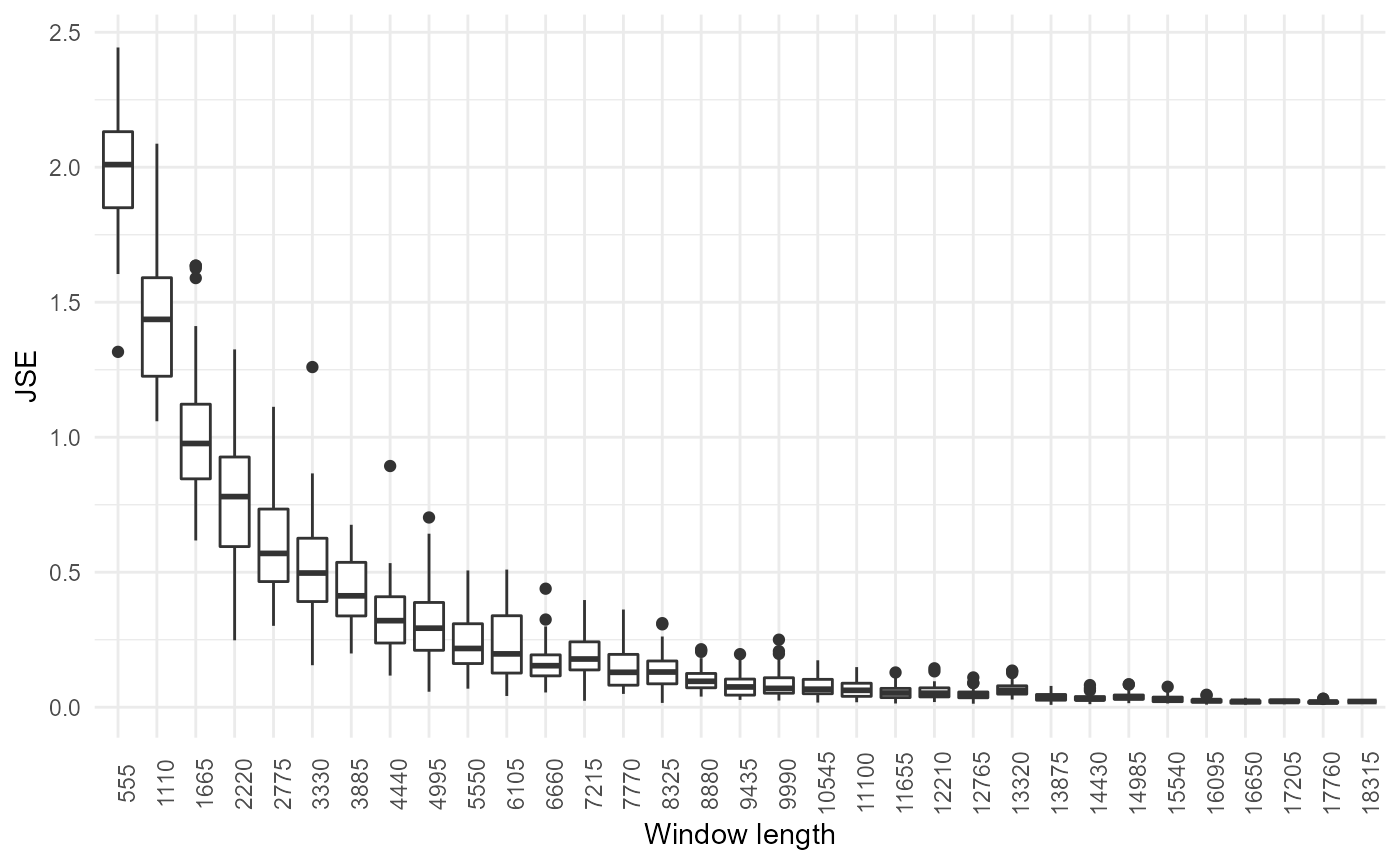
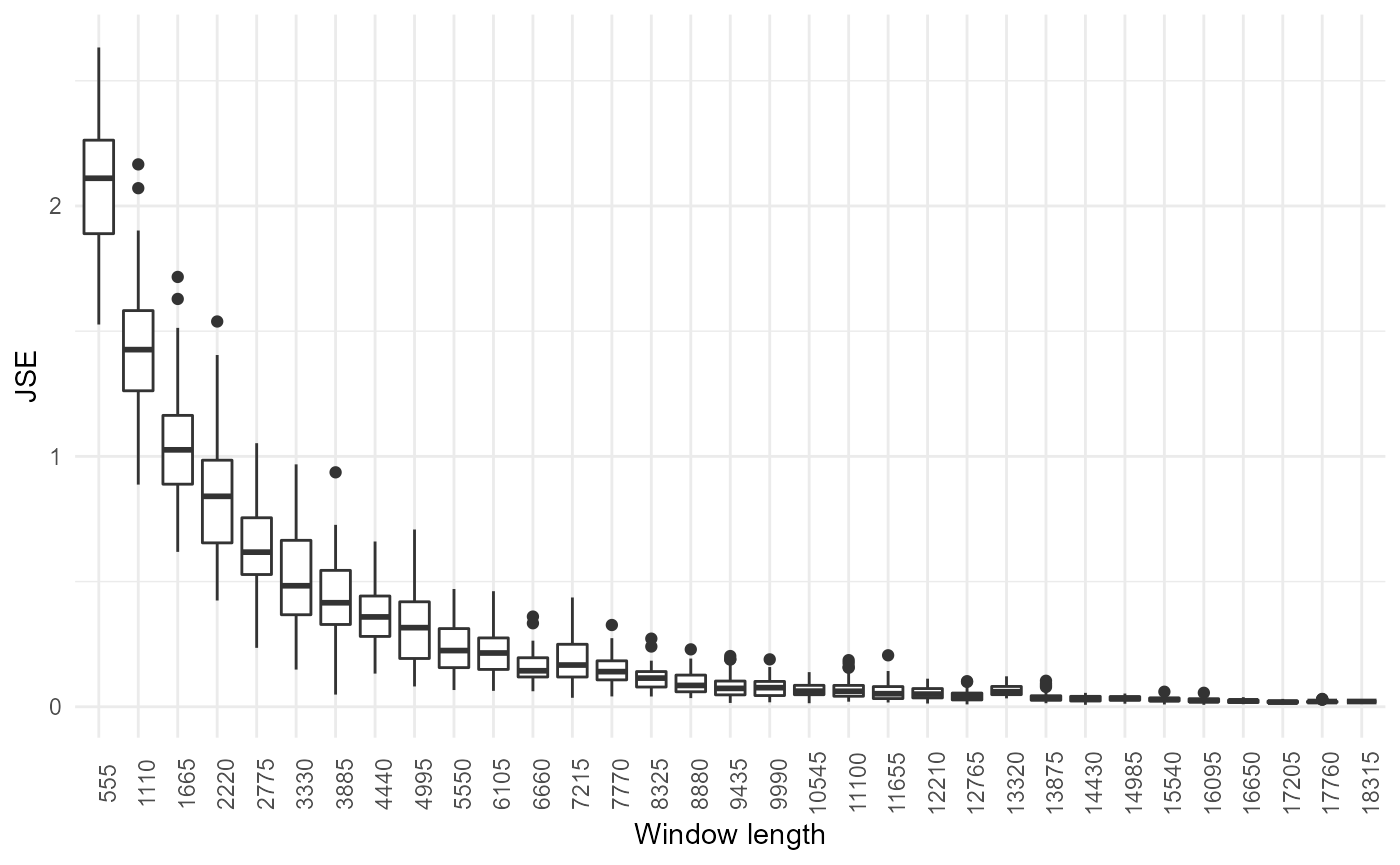
small vignette update

diff --git a/docs/articles/vignette_noisyr_counts.html b/docs/articles/vignette_noisyr_counts.html
@@ -103,7 +103,7 @@
 
       
 
-      </header><div class="row">
+      </header><script src="vignette_noisyr_counts_files/header-attrs-2.8/header-attrs.js"></script><div class="row">
   <div class="col-md-9 contents">
     <div class="page-header toc-ignore">
       <h1 data-toc-skip>noisyR count matrix approach workflow</h1>
@@ -128,7 +128,9 @@
 <p>Each step can be finely tuned using hyperparameters; optimal, data-driven values for these parameters are also determined.</p>
 <p>The package and some applications are described in more detail in <a href="https://www.biorxiv.org/content/10.1101/2021.01.17.427026v2">this preprint</a> and is actively maintained on <a href="https://github.com/Core-Bioinformatics/noisyR" class="uri">https://github.com/Core-Bioinformatics/noisyR</a>.</p>
 <p>The <strong>count matrix approach</strong> uses the original, un-normalised count matrix, as provided after alignment and feature quantification; each sample is processed individually, only the relative expressions across samples are compared. Relying on the hypothesis that the majority of genes are not DE, most of the evaluations are expected to point towards a high similarity across samples.</p>
-<h1 id="installation">Installation</h1>
+<div id="installation" class="section level1">
+<h1 class="hasAnchor">
+<a href="#installation" class="anchor"></a>Installation</h1>
 <p>To install the package, first install all bioconductor dependencies:</p>
 <div class="sourceCode" id="cb1"><pre class="downlit sourceCode r">
 <code class="sourceCode R"><span class="va">packages.bioc</span> <span class="op">&lt;-</span> <span class="fu"><a href="https://rdrr.io/r/base/c.html">c</a></span><span class="op">(</span><span class="st">"preprocessCore"</span>,
@@ -162,7 +164,10 @@
 <span class="kw">if</span> <span class="op">(</span><span class="op">!</span><span class="fu"><a href="https://rdrr.io/r/base/ns-load.html">requireNamespace</a></span><span class="op">(</span><span class="st">"devtools"</span>, quietly <span class="op">=</span> <span class="cn">TRUE</span><span class="op">)</span><span class="op">)</span>
   <span class="fu"><a href="https://rdrr.io/r/utils/install.packages.html">install.packages</a></span><span class="op">(</span><span class="st">"devtools"</span><span class="op">)</span>
 <span class="fu">devtools</span><span class="fu">::</span><span class="fu"><a href="https://devtools.r-lib.org//reference/remote-reexports.html">install_github</a></span><span class="op">(</span><span class="st">"Core-Bioinformatics/noisyR"</span><span class="op">)</span></code></pre></div>
-<h1 id="preprocessing">Preprocessing</h1>
+</div>
+<div id="preprocessing" class="section level1">
+<h1 class="hasAnchor">
+<a href="#preprocessing" class="anchor"></a>Preprocessing</h1>
 <p>First, load <em>noisyR</em>:</p>
 <div class="sourceCode" id="cb4"><pre class="downlit sourceCode r">
 <code class="sourceCode R"><span class="kw"><a href="https://rdrr.io/r/base/library.html">library</a></span><span class="op">(</span><span class="va"><a href="https://github.com/Core-Bioinformatics/noisyR">noisyr</a></span><span class="op">)</span></code></pre></div>
@@ -187,7 +192,10 @@
 <p>Note that when reading from a file R typically returns a data frame. To convert to a matrix we use the function <em>cast_matrix_to_numeric()</em>. This also converts values to numeric (in case they were read as characters). Any values that are not coercible to numeric are replaced by 0.</p>
 <div class="sourceCode" id="cb6"><pre class="downlit sourceCode r">
 <code class="sourceCode R"><span class="va">expression.matrix</span> <span class="op">&lt;-</span> <span class="fu">noisyr</span><span class="fu">::</span><span class="fu"><a href="../reference/cast_matrix_to_numeric.html">cast_matrix_to_numeric</a></span><span class="op">(</span><span class="va">df</span><span class="op">)</span></code></pre></div>
-<h1 id="running-noisyr">Running <em>noisyR</em>
+</div>
+<div id="running-noisyr" class="section level1">
+<h1 class="hasAnchor">
+<a href="#running-noisyr" class="anchor"></a>Running <em>noisyR</em>
 </h1>
 <p>The full <em>noisyR</em> pipeline can be run through <em>noisyr()</em>, choosing “counts” for the count matrix approach (internally calls <em>noisyr_counts()</em>). The user can pass many arguments to this function, which alter the behaviour of the different pipeline steps, as discussed in the breakdown below.</p>
 <div class="sourceCode" id="cb7"><pre class="downlit sourceCode r">
@@ -227,9 +235,14 @@
 <span class="fu"><a href="https://rdrr.io/r/base/apply.html">apply</a></span><span class="op">(</span><span class="va">expression.matrix.denoised.standard</span>, <span class="fl">2</span>, <span class="va">min</span><span class="op">)</span>
 <span class="co">#&gt; SRR7624365 SRR7624366 SRR7624371 SRR7624372 </span>
 <span class="co">#&gt;         18         18         18         18</span></code></pre></div>
-<h1 id="pipeline-breakdown">Pipeline breakdown</h1>
+</div>
+<div id="pipeline-breakdown" class="section level1">
+<h1 class="hasAnchor">
+<a href="#pipeline-breakdown" class="anchor"></a>Pipeline breakdown</h1>
 <p>While for most applications, running <em>noisyr()</em> is sufficient, it may be useful to run individual pipeline steps manually. For example, the user may want to create summary figures for the denoising, store the noise thresholds obtained or other intermediary outputs, or try out different options without rerunning all steps. In this section, we look deeper into <em>noisyr()</em> and break down the three main steps that are performed.</p>
-<h2 id="similarity-calculation">Similarity calculation</h2>
+<div id="similarity-calculation" class="section level2">
+<h2 class="hasAnchor">
+<a href="#similarity-calculation" class="anchor"></a>Similarity calculation</h2>
 <p>We can then run the similarity calculation using <em>calculate_expression_similarity_counts()</em>:</p>
 <div class="sourceCode" id="cb9"><pre class="downlit sourceCode r">
 <code class="sourceCode R"><span class="va">expression.summary</span> <span class="op">&lt;-</span> <span class="fu">noisyr</span><span class="fu">::</span><span class="fu"><a href="../reference/calculate_expression_similarity_counts.html">calculate_expression_similarity_counts</a></span><span class="op">(</span>
@@ -299,7 +312,7 @@
 <span class="co">#&gt; Calculating expression summary and JSE for each window...</span>
 <span class="co">#&gt; Performing t-tests...</span>
 <span class="co">#&gt; The number of similar windows found for each window (including itself) were:</span>
-<span class="co">#&gt;     1 1 1 1 1 1 1 2 2 2 2 4 2 3 3 2 3 4 5 5 4 3 2 3 3 4 3 2 2 4 4 2 3</span>
+<span class="co">#&gt;     1 1 1 1 1 1 1 2 2 2 2 3 3 3 1 2 4 4 5 6 5 3 3 4 4 4 4 3 2 3 3 3 4</span>
 <span class="co">#&gt; Optimal window found!</span></code></pre></div>
 <p><img src="vignette_noisyr_counts_files/figure-html/window_opt-1.png" width="700"></p>
 <pre><code>#&gt; [1] 6660</code></pre>
@@ -334,7 +347,10 @@
     <span class="fu">ggplot2</span><span class="fu">::</span><span class="fu"><a href="https://ggplot2.tidyverse.org/reference/labs.html">ylab</a></span><span class="op">(</span><span class="st">"Pearson correlation"</span><span class="op">)</span> <span class="op">+</span>
     <span class="fu">ggplot2</span><span class="fu">::</span><span class="fu"><a href="https://ggplot2.tidyverse.org/reference/geom_abline.html">geom_hline</a></span><span class="op">(</span>yintercept<span class="op">=</span><span class="fl">0.25</span>, color<span class="op">=</span><span class="st">"black"</span><span class="op">)</span></code></pre></div>
 <p><img src="vignette_noisyr_counts_files/figure-html/combined_plot-1.png" width="700"></p>
-<h2 id="noise-quantification">Noise quantification</h2>
+</div>
+<div id="noise-quantification" class="section level2">
+<h2 class="hasAnchor">
+<a href="#noise-quantification" class="anchor"></a>Noise quantification</h2>
 <p>Using the output of the similarity calculation, we can compute the signal to noise threshold in each sample:</p>
 <div class="sourceCode" id="cb15"><pre class="downlit sourceCode r">
 <code class="sourceCode R"><span class="va">noise.thresholds</span> <span class="op">&lt;-</span> <span class="fu">noisyr</span><span class="fu">::</span><span class="fu"><a href="../reference/calculate_noise_threshold.html">calculate_noise_threshold</a></span><span class="op">(</span>expression <span class="op">=</span> <span class="va">expression.summary</span><span class="op">)</span>
@@ -416,7 +432,10 @@
 <span class="va">noise.thresholds</span>
 <span class="co">#&gt; [1]  9.664027 13.325175  7.368364  9.171495</span></code></pre></div>
 <p>Parameter optimisation can be turned on by specifying vectors of values for <em>similarity.threshold</em> and/or <em>method.chosen</em> (a subset of <em>get_methods_calculate_noise_threshold()</em>) when calling <em>noisyr()</em> or <em>noisyr_counts()</em>.</p>
-<h2 id="noise-removal">Noise removal</h2>
+</div>
+<div id="noise-removal" class="section level2">
+<h2 class="hasAnchor">
+<a href="#noise-removal" class="anchor"></a>Noise removal</h2>
 <p>To produce the denoised count matrix, the function <em>remove_noise_from_matrix()</em> is used with a specified vector of noise thresholds (usually calculated by <em>calculate_noise_threshold()</em>).</p>
 <div class="sourceCode" id="cb19"><pre class="downlit sourceCode r">
 <code class="sourceCode R"><span class="va">expression.matrix.denoised</span> <span class="op">&lt;-</span> <span class="fu">noisyr</span><span class="fu">::</span><span class="fu"><a href="../reference/remove_noise_from_matrix.html">remove_noise_from_matrix</a></span><span class="op">(</span>
@@ -459,8 +478,8 @@
   expression.matrix <span class="op">=</span> <span class="va">expression.matrix</span>,
   similarity.measure <span class="op">=</span> <span class="st">"correlation_pearson"</span>,
   optimise.window.length.logical <span class="op">=</span> <span class="cn">FALSE</span>,
-  similarity.threshold.sequence <span class="op">=</span> <span class="fu"><a href="https://rdrr.io/r/base/seq.html">seq</a></span><span class="op">(</span><span class="fl">0.2</span>, <span class="fl">0.3</span>, by<span class="op">=</span><span class="fl">0.01</span><span class="op">)</span>,
-  method.chosen.sequence <span class="op">=</span> <span class="fu"><a href="../reference/get_methods_calculate_noise_threshold.html">get_methods_calculate_noise_threshold</a></span><span class="op">(</span><span class="op">)</span>
+  similarity.threshold <span class="op">=</span> <span class="fu"><a href="https://rdrr.io/r/base/seq.html">seq</a></span><span class="op">(</span><span class="fl">0.2</span>, <span class="fl">0.3</span>, by<span class="op">=</span><span class="fl">0.01</span><span class="op">)</span>,
+  method.chosen <span class="op">=</span> <span class="fu"><a href="../reference/get_methods_calculate_noise_threshold.html">get_methods_calculate_noise_threshold</a></span><span class="op">(</span><span class="op">)</span>
 <span class="op">)</span>
 <span class="co">#&gt; &gt;&gt;&gt; noisyR counts approach pipeline &lt;&lt;&lt;</span>
 <span class="co">#&gt; The input matrix has 55573 rows and 4 cols</span>
@@ -474,17 +493,22 @@
 <span class="co">#&gt;   Working with sample 2</span>
 <span class="co">#&gt;   Working with sample 3</span>
 <span class="co">#&gt;   Working with sample 4</span>
+<span class="co">#&gt; Selecting parameters that minimise the coefficient of variation...</span>
 <span class="co">#&gt; Calculating noise thresholds for 4 samples...</span>
-<span class="co">#&gt;     similarity.threshold = 0.25</span>
-<span class="co">#&gt;     method.chosen = Boxplot-IQR</span>
+<span class="co">#&gt;     similarity.threshold = 0.21</span>
+<span class="co">#&gt;     method.chosen = Line_plot-loess10_smoothing</span>
 <span class="co">#&gt; Denoising expression matrix...</span>
 <span class="co">#&gt;     removing noisy genes</span>
 <span class="co">#&gt;     adjusting matrix</span>
 <span class="co">#&gt; &gt;&gt;&gt; Done! &lt;&lt;&lt;</span>
 <span class="fu"><a href="https://rdrr.io/r/base/identical.html">identical</a></span><span class="op">(</span><span class="va">expression.matrix.denoised</span>,
           <span class="va">expression.matrix.denoised.full.pipeline</span><span class="op">)</span>
-<span class="co">#&gt; [1] FALSE</span></code></pre></div>
-<h1 id="downstream-analysis">Downstream analysis</h1>
+<span class="co">#&gt; [1] TRUE</span></code></pre></div>
+</div>
+</div>
+<div id="downstream-analysis" class="section level1">
+<h1 class="hasAnchor">
+<a href="#downstream-analysis" class="anchor"></a>Downstream analysis</h1>
 <p>The denoised matrix can be used instead of the raw count matrix for downstream analysis. Here we present a simple example of a differential expression (DE) analysis and compare the two.</p>
 <p>We create a function to perform the same DE pipeline on both matrices, using <a href="https://www.ncbi.nlm.nih.gov/pmc/articles/PMC2796818/">the edgeR package</a>.</p>
 <div class="sourceCode" id="cb22"><pre class="downlit sourceCode r">
@@ -545,7 +569,7 @@
 <p>We can also see the number of differentially expressed genes has been reduced.</p>
 <div class="sourceCode" id="cb23"><pre class="downlit sourceCode r">
 <code class="sourceCode R"><span class="fu"><a href="https://rdrr.io/r/utils/sessionInfo.html">sessionInfo</a></span><span class="op">(</span><span class="op">)</span>
-<span class="co">#&gt; R version 4.0.3 (2020-10-10)</span>
+<span class="co">#&gt; R version 4.1.0 (2021-05-18)</span>
 <span class="co">#&gt; Platform: x86_64-w64-mingw32/x64 (64-bit)</span>
 <span class="co">#&gt; Running under: Windows 10 x64 (build 19042)</span>
 <span class="co">#&gt; </span>
@@ -565,27 +589,29 @@
 <span class="co">#&gt; [1] noisyr_1.0.0</span>
 <span class="co">#&gt; </span>
 <span class="co">#&gt; loaded via a namespace (and not attached):</span>
-<span class="co">#&gt;  [1] tidyselect_1.1.0      xfun_0.21             purrr_0.3.4          </span>
-<span class="co">#&gt;  [4] splines_4.0.3         lattice_0.20-41       colorspace_2.0-0     </span>
-<span class="co">#&gt;  [7] vctrs_0.3.6           generics_0.1.0        htmltools_0.5.1.1    </span>
-<span class="co">#&gt; [10] yaml_2.2.1            mgcv_1.8-33           utf8_1.1.4           </span>
-<span class="co">#&gt; [13] rlang_0.4.10          pkgdown_1.6.1         pillar_1.4.7         </span>
-<span class="co">#&gt; [16] glue_1.4.2            DBI_1.1.1             foreach_1.5.1        </span>
-<span class="co">#&gt; [19] lifecycle_0.2.0       stringr_1.4.0         munsell_0.5.0        </span>
-<span class="co">#&gt; [22] gtable_0.3.0          ragg_1.1.2            codetools_0.2-18     </span>
+<span class="co">#&gt;  [1] tidyselect_1.1.1      xfun_0.23             bslib_0.2.5.1        </span>
+<span class="co">#&gt;  [4] purrr_0.3.4           lattice_0.20-44       splines_4.1.0        </span>
+<span class="co">#&gt;  [7] colorspace_2.0-1      vctrs_0.3.8           generics_0.1.0       </span>
+<span class="co">#&gt; [10] htmltools_0.5.1.1     yaml_2.2.1            mgcv_1.8-35          </span>
+<span class="co">#&gt; [13] utf8_1.2.1            rlang_0.4.11          pkgdown_1.6.1        </span>
+<span class="co">#&gt; [16] jquerylib_0.1.4       pillar_1.6.1          glue_1.4.2           </span>
+<span class="co">#&gt; [19] DBI_1.1.1             lifecycle_1.0.0       stringr_1.4.0        </span>
+<span class="co">#&gt; [22] munsell_0.5.0         gtable_0.3.0          ragg_1.1.2           </span>
 <span class="co">#&gt; [25] memoise_2.0.0         evaluate_0.14         labeling_0.4.2       </span>
-<span class="co">#&gt; [28] knitr_1.31            fastmap_1.1.0         fansi_0.4.2          </span>
-<span class="co">#&gt; [31] preprocessCore_1.52.1 highr_0.8             Rcpp_1.0.6           </span>
-<span class="co">#&gt; [34] scales_1.1.1          cachem_1.0.3          desc_1.2.0           </span>
-<span class="co">#&gt; [37] farver_2.0.3          systemfonts_1.0.1     fs_1.5.0             </span>
-<span class="co">#&gt; [40] textshaping_0.3.3     ggplot2_3.3.3         digest_0.6.27        </span>
-<span class="co">#&gt; [43] stringi_1.5.3         dplyr_1.0.4           rprojroot_2.0.2      </span>
-<span class="co">#&gt; [46] grid_4.0.3            cli_2.3.0             tools_4.0.3          </span>
-<span class="co">#&gt; [49] magrittr_2.0.1        philentropy_0.4.0     tibble_3.0.6         </span>
-<span class="co">#&gt; [52] crayon_1.4.1          pkgconfig_2.0.3       ellipsis_0.3.1       </span>
-<span class="co">#&gt; [55] Matrix_1.3-2          assertthat_0.2.1      rmarkdown_2.6        </span>
-<span class="co">#&gt; [58] iterators_1.0.13      R6_2.5.0              nlme_3.1-152         </span>
-<span class="co">#&gt; [61] compiler_4.0.3</span></code></pre></div>
+<span class="co">#&gt; [28] knitr_1.33            fastmap_1.1.0         ps_1.6.0             </span>
+<span class="co">#&gt; [31] fansi_0.5.0           preprocessCore_1.54.0 highr_0.9            </span>
+<span class="co">#&gt; [34] Rcpp_1.0.6            scales_1.1.1          cachem_1.0.5         </span>
+<span class="co">#&gt; [37] desc_1.3.0            jsonlite_1.7.2        farver_2.1.0         </span>
+<span class="co">#&gt; [40] systemfonts_1.0.2     fs_1.5.0              textshaping_0.3.4    </span>
+<span class="co">#&gt; [43] ggplot2_3.3.3         digest_0.6.27         stringi_1.6.2        </span>
+<span class="co">#&gt; [46] dplyr_1.0.6           rprojroot_2.0.2       grid_4.1.0           </span>
+<span class="co">#&gt; [49] cli_2.5.0             tools_4.1.0           magrittr_2.0.1       </span>
+<span class="co">#&gt; [52] philentropy_0.5.0     sass_0.4.0            tibble_3.1.2         </span>
+<span class="co">#&gt; [55] crayon_1.4.1          pkgconfig_2.0.3       Matrix_1.3-3         </span>
+<span class="co">#&gt; [58] ellipsis_0.3.2        rstudioapi_0.13       assertthat_0.2.1     </span>
+<span class="co">#&gt; [61] rmarkdown_2.8         R6_2.5.0              nlme_3.1-152         </span>
+<span class="co">#&gt; [64] compiler_4.1.0</span></code></pre></div>
+</div>
 </div>
   </div>
 

diff --git a/docs/reference/calculate_noise_threshold_method_statistics.html b/docs/reference/calculate_noise_threshold_method_statistics.html
@@ -228,21 +228,21 @@ concatenated as a string.</p>
     method <span class='op'>=</span> <span class='st'>"correlation_pearson"</span>,
     n.elements.per.window <span class='op'>=</span> <span class='fl'>3</span><span class='op'>)</span>
 </div><div class='output co'>#&gt; <span class='message'>The input matrix has 20 rows and 5 cols</span></div><div class='output co'>#&gt; <span class='message'>    number of genes: 20</span></div><div class='output co'>#&gt; <span class='message'>    number of samples: 5</span></div><div class='output co'>#&gt; <span class='message'>    the number of elements per window is 3</span></div><div class='output co'>#&gt; <span class='message'>    the step size is 1</span></div><div class='output co'>#&gt; <span class='message'>    the selected similarity metric is correlation_pearson</span></div><div class='output co'>#&gt; <span class='message'>  Working with sample 1</span></div><div class='output co'>#&gt; <span class='message'>  Working with sample 2</span></div><div class='output co'>#&gt; <span class='message'>  Working with sample 3</span></div><div class='output co'>#&gt; <span class='message'>  Working with sample 4</span></div><div class='output co'>#&gt; <span class='message'>  Working with sample 5</span></div><div class='input'><span class='fu'>calculate_noise_threshold_method_statistics</span><span class='op'>(</span><span class='va'>expression.summary</span><span class='op'>)</span>
-</div><div class='output co'>#&gt; <span style='color: #949494;'># A tibble: 10 x 8</span><span>
-#&gt;    approach method similarity.thre~ noise.threshold~ noise.threshold~
-#&gt;    </span><span style='color: #949494;font-style: italic;'>&lt;chr&gt;</span><span>    </span><span style='color: #949494;font-style: italic;'>&lt;chr&gt;</span><span>             </span><span style='color: #949494;font-style: italic;'>&lt;dbl&gt;</span><span>            </span><span style='color: #949494;font-style: italic;'>&lt;dbl&gt;</span><span>            </span><span style='color: #949494;font-style: italic;'>&lt;dbl&gt;</span><span>
-#&gt; </span><span style='color: #BCBCBC;'> 1</span><span> Density~ No_no~             0.25                0                0
-#&gt; </span><span style='color: #BCBCBC;'> 2</span><span> Density~ RPM_n~             0.25                0                0
-#&gt; </span><span style='color: #BCBCBC;'> 3</span><span> Density~ Quant~             0.25                0                0
-#&gt; </span><span style='color: #BCBCBC;'> 4</span><span> Line_pl~ No_sm~             0.25                2               42
-#&gt; </span><span style='color: #BCBCBC;'> 5</span><span> Line_pl~ loess~             0.25                2               42
-#&gt; </span><span style='color: #BCBCBC;'> 6</span><span> Line_pl~ loess~             0.25                2               42
-#&gt; </span><span style='color: #BCBCBC;'> 7</span><span> Line_pl~ loess~             0.25                2               42
-#&gt; </span><span style='color: #BCBCBC;'> 8</span><span> Boxplot  Median             0.25                1                1
-#&gt; </span><span style='color: #BCBCBC;'> 9</span><span> Boxplot  IQR                0.25                1                1
-#&gt; </span><span style='color: #BCBCBC;'>10</span><span> Boxplot  Quant5             0.25                1                1
-#&gt; </span><span style='color: #949494;'># ... with 3 more variables: noise.threshold.coefficient.of.variation </span><span style='color: #949494;font-style: italic;'>&lt;dbl&gt;</span><span style='color: #949494;'>,</span><span>
-#&gt; </span><span style='color: #949494;'>#   noise.threshold.max </span><span style='color: #949494;font-style: italic;'>&lt;dbl&gt;</span><span style='color: #949494;'>, noise.thresholds.all </span><span style='color: #949494;font-style: italic;'>&lt;chr&gt;</span><span></div></span></pre>
+</div><div class='output co'>#&gt; <span style='color: #949494;'># A tibble: 10 x 8</span>
+#&gt;    approach   method       similarity.thres~ noise.threshold.~ noise.threshold.~
+#&gt;    <span style='color: #949494; font-style: italic;'>&lt;chr&gt;</span>      <span style='color: #949494; font-style: italic;'>&lt;chr&gt;</span>                    <span style='color: #949494; font-style: italic;'>&lt;dbl&gt;</span>             <span style='color: #949494; font-style: italic;'>&lt;dbl&gt;</span>             <span style='color: #949494; font-style: italic;'>&lt;dbl&gt;</span>
+#&gt; <span style='color: #BCBCBC;'> 1</span> Density_b~ No_normalis~              0.25                 0                 0
+#&gt; <span style='color: #BCBCBC;'> 2</span> Density_b~ RPM_normali~              0.25                 0                 0
+#&gt; <span style='color: #BCBCBC;'> 3</span> Density_b~ Quantile_no~              0.25                 0                 0
+#&gt; <span style='color: #BCBCBC;'> 4</span> Line_plot  No_smoothing              0.25                 2                42
+#&gt; <span style='color: #BCBCBC;'> 5</span> Line_plot  loess10_smo~              0.25                 2                42
+#&gt; <span style='color: #BCBCBC;'> 6</span> Line_plot  loess25_smo~              0.25                 2                42
+#&gt; <span style='color: #BCBCBC;'> 7</span> Line_plot  loess50_smo~              0.25                 2                42
+#&gt; <span style='color: #BCBCBC;'> 8</span> Boxplot    Median                    0.25                 1                 1
+#&gt; <span style='color: #BCBCBC;'> 9</span> Boxplot    IQR                       0.25                 1                 1
+#&gt; <span style='color: #BCBCBC;'>10</span> Boxplot    Quant5                    0.25                 1                 1
+#&gt; <span style='color: #949494;'># ... with 3 more variables: noise.threshold.coefficient.of.variation &lt;dbl&gt;,</span>
+#&gt; <span style='color: #949494;'>#   noise.threshold.max &lt;dbl&gt;, noise.thresholds.all &lt;chr&gt;</span></div></pre>
   </div>
   <div class="col-md-3 hidden-xs hidden-sm" id="pkgdown-sidebar">
     <nav id="toc" data-toggle="toc" class="sticky-top">

diff --git a/docs/reference/cast_gtf_to_genes.html b/docs/reference/cast_gtf_to_genes.html
@@ -205,20 +205,20 @@ of each exon found in the gtf file.</p>
     <h2 class="hasAnchor" id="examples"><a class="anchor" href="#examples"></a>Examples</h2>
     <pre class="examples"><div class='input'><span class='va'>fl</span> <span class='op'>&lt;-</span> <span class='fu'><a href='https://rdrr.io/r/base/system.file.html'>system.file</a></span><span class='op'>(</span><span class='st'>"extdata"</span>, <span class='st'>"example.gtf.gz"</span>, package<span class='op'>=</span><span class='st'>"Rsamtools"</span>, mustWork<span class='op'>=</span><span class='cn'>TRUE</span><span class='op'>)</span>
 <span class='fu'>cast_gtf_to_genes</span><span class='op'>(</span><span class='va'>fl</span><span class='op'>)</span>
-</div><div class='output co'>#&gt; <span style='color: #949494;'># A tibble: 91 x 4</span><span>
+</div><div class='output co'>#&gt; <span style='color: #949494;'># A tibble: 91 x 4</span>
 #&gt;    gene_id         seqid start   end
-#&gt;    </span><span style='color: #949494;font-style: italic;'>&lt;chr&gt;</span><span>           </span><span style='color: #949494;font-style: italic;'>&lt;chr&gt;</span><span> </span><span style='color: #949494;font-style: italic;'>&lt;int&gt;</span><span> </span><span style='color: #949494;font-style: italic;'>&lt;int&gt;</span><span>
-#&gt; </span><span style='color: #BCBCBC;'> 1</span><span> ENSG00000223972 chr1   </span><span style='text-decoration: underline;'>1</span><span>737  </span><span style='text-decoration: underline;'>2</span><span>090
-#&gt; </span><span style='color: #BCBCBC;'> 2</span><span> ENSG00000223972 chr1   </span><span style='text-decoration: underline;'>1</span><span>873  </span><span style='text-decoration: underline;'>1</span><span>920
-#&gt; </span><span style='color: #BCBCBC;'> 3</span><span> ENSG00000223972 chr1   </span><span style='text-decoration: underline;'>2</span><span>042  </span><span style='text-decoration: underline;'>2</span><span>090
-#&gt; </span><span style='color: #BCBCBC;'> 4</span><span> ENSG00000223972 chr1   </span><span style='text-decoration: underline;'>2</span><span>476  </span><span style='text-decoration: underline;'>2</span><span>560
-#&gt; </span><span style='color: #BCBCBC;'> 5</span><span> ENSG00000223972 chr1   </span><span style='text-decoration: underline;'>2</span><span>476  </span><span style='text-decoration: underline;'>2</span><span>584
-#&gt; </span><span style='color: #BCBCBC;'> 6</span><span> ENSG00000223972 chr1   </span><span style='text-decoration: underline;'>2</span><span>838  </span><span style='text-decoration: underline;'>2</span><span>915
-#&gt; </span><span style='color: #BCBCBC;'> 7</span><span> ENSG00000223972 chr1   </span><span style='text-decoration: underline;'>3</span><span>084  </span><span style='text-decoration: underline;'>3</span><span>237
-#&gt; </span><span style='color: #BCBCBC;'> 8</span><span> ENSG00000223972 chr1   </span><span style='text-decoration: underline;'>3</span><span>084  </span><span style='text-decoration: underline;'>4</span><span>275
-#&gt; </span><span style='color: #BCBCBC;'> 9</span><span> ENSG00000223972 chr1   </span><span style='text-decoration: underline;'>3</span><span>316  </span><span style='text-decoration: underline;'>3</span><span>533
-#&gt; </span><span style='color: #BCBCBC;'>10</span><span> ENSG00000227232 chr1   </span><span style='text-decoration: underline;'>4</span><span>226  </span><span style='text-decoration: underline;'>4</span><span>692
-#&gt; </span><span style='color: #949494;'># ... with 81 more rows</span><span></div></span></pre>
+#&gt;    <span style='color: #949494; font-style: italic;'>&lt;chr&gt;</span>           <span style='color: #949494; font-style: italic;'>&lt;chr&gt;</span> <span style='color: #949494; font-style: italic;'>&lt;int&gt;</span> <span style='color: #949494; font-style: italic;'>&lt;int&gt;</span>
+#&gt; <span style='color: #BCBCBC;'> 1</span> ENSG00000223972 chr1   <span style='text-decoration: underline;'>1</span>737  <span style='text-decoration: underline;'>2</span>090
+#&gt; <span style='color: #BCBCBC;'> 2</span> ENSG00000223972 chr1   <span style='text-decoration: underline;'>1</span>873  <span style='text-decoration: underline;'>1</span>920
+#&gt; <span style='color: #BCBCBC;'> 3</span> ENSG00000223972 chr1   <span style='text-decoration: underline;'>2</span>042  <span style='text-decoration: underline;'>2</span>090
+#&gt; <span style='color: #BCBCBC;'> 4</span> ENSG00000223972 chr1   <span style='text-decoration: underline;'>2</span>476  <span style='text-decoration: underline;'>2</span>560
+#&gt; <span style='color: #BCBCBC;'> 5</span> ENSG00000223972 chr1   <span style='text-decoration: underline;'>2</span>476  <span style='text-decoration: underline;'>2</span>584
+#&gt; <span style='color: #BCBCBC;'> 6</span> ENSG00000223972 chr1   <span style='text-decoration: underline;'>2</span>838  <span style='text-decoration: underline;'>2</span>915
+#&gt; <span style='color: #BCBCBC;'> 7</span> ENSG00000223972 chr1   <span style='text-decoration: underline;'>3</span>084  <span style='text-decoration: underline;'>3</span>237
+#&gt; <span style='color: #BCBCBC;'> 8</span> ENSG00000223972 chr1   <span style='text-decoration: underline;'>3</span>084  <span style='text-decoration: underline;'>4</span>275
+#&gt; <span style='color: #BCBCBC;'> 9</span> ENSG00000223972 chr1   <span style='text-decoration: underline;'>3</span>316  <span style='text-decoration: underline;'>3</span>533
+#&gt; <span style='color: #BCBCBC;'>10</span> ENSG00000227232 chr1   <span style='text-decoration: underline;'>4</span>226  <span style='text-decoration: underline;'>4</span>692
+#&gt; <span style='color: #949494;'># ... with 81 more rows</span></div></pre>
   </div>
   <div class="col-md-3 hidden-xs hidden-sm" id="pkgdown-sidebar">
     <nav id="toc" data-toggle="toc" class="sticky-top">

diff --git a/docs/reference/noisyr_transcript.html b/docs/reference/noisyr_transcript.html
@@ -254,7 +254,7 @@ of remove_noise_from_bams()</p>
   genes <span class='op'>=</span> <span class='va'>genes</span>,
   destination.files <span class='op'>=</span> <span class='fu'><a href='https://rdrr.io/r/base/paste.html'>paste0</a></span><span class='op'>(</span><span class='fu'><a href='https://rdrr.io/r/base/tempfile.html'>tempdir</a></span><span class='op'>(</span><span class='op'>)</span>, <span class='st'>"/"</span>, <span class='fu'><a href='https://rdrr.io/r/base/basename.html'>basename</a></span><span class='op'>(</span><span class='va'>bams</span><span class='op'>)</span>, <span class='st'>".noisefiltered.bam"</span><span class='op'>)</span>
 <span class='op'>)</span>
-</div><div class='output co'>#&gt; <span class='message'>&gt;&gt;&gt; noisyR transcript approach pipeline &lt;&lt;&lt;</span></div><div class='output co'>#&gt; <span class='message'>Calculating expression similarity for 2 genes...</span></div><div class='output co'>#&gt; <span class='message'>    this process may take a long time...</span></div><div class='output co'>#&gt; <span class='message'>    ncores=1, running sequentially...</span></div><div class='output co'>#&gt; <span class='warning'>Warning: the standard deviation is zero</span></div><div class='output co'>#&gt; <span class='warning'>Warning: the standard deviation is zero</span></div><div class='output co'>#&gt; <span class='message'>Finished! Time elapsed: 0.18 secs</span></div><div class='output co'>#&gt; <span class='message'>Similarity calculation produced too many NAs, returning zero...</span></div><div class='output co'>#&gt; <span class='message'>Denoising 2 BAM files...</span></div><div class='output co'>#&gt; <span class='message'>  filtering genes using the noise thresholds</span></div><div class='output co'>#&gt; <span class='message'>    doing filtering by gene</span></div><div class='output co'>#&gt; <span class='message'>  kept 2 entries out of 2</span></div><div class='output co'>#&gt; <span class='message'>  denoising BAM file 1 of 2</span></div><div class='output co'>#&gt; <span class='message'>  denoising BAM file 2 of 2</span></div><div class='output co'>#&gt; <span class='message'>&gt;&gt;&gt; Done! &lt;&lt;&lt;</span></div></pre>
+</div><div class='output co'>#&gt; <span class='message'>&gt;&gt;&gt; noisyR transcript approach pipeline &lt;&lt;&lt;</span></div><div class='output co'>#&gt; <span class='message'>Calculating expression similarity for 2 genes...</span></div><div class='output co'>#&gt; <span class='message'>    this process may take a long time...</span></div><div class='output co'>#&gt; <span class='message'>    ncores=1, running sequentially...</span></div><div class='output co'>#&gt; <span class='warning'>Warning: the standard deviation is zero</span></div><div class='output co'>#&gt; <span class='warning'>Warning: the standard deviation is zero</span></div><div class='output co'>#&gt; <span class='message'>Finished! Time elapsed: 1.28 secs</span></div><div class='output co'>#&gt; <span class='message'>Similarity calculation produced too many NAs, returning zero...</span></div><div class='output co'>#&gt; <span class='message'>Denoising 2 BAM files...</span></div><div class='output co'>#&gt; <span class='message'>  filtering genes using the noise thresholds</span></div><div class='output co'>#&gt; <span class='message'>    doing filtering by gene</span></div><div class='output co'>#&gt; <span class='message'>  kept 2 entries out of 2</span></div><div class='output co'>#&gt; <span class='message'>  denoising BAM file 1 of 2</span></div><div class='output co'>#&gt; <span class='message'>  denoising BAM file 2 of 2</span></div><div class='output co'>#&gt; <span class='message'>&gt;&gt;&gt; Done! &lt;&lt;&lt;</span></div></pre>
   </div>
   <div class="col-md-3 hidden-xs hidden-sm" id="pkgdown-sidebar">
     <nav id="toc" data-toggle="toc" class="sticky-top">

diff --git a/docs/reference/filter_genes_transcript.html b/docs/reference/filter_genes_transcript.html
@@ -236,7 +236,7 @@ if it is below the corresponding noise thresholds.</p></td>
   genes <span class='op'>=</span> <span class='va'>genes</span>,
   mapq.unique <span class='op'>=</span> <span class='fl'>99</span>
 <span class='op'>)</span>
-</div><div class='output co'>#&gt; <span class='message'>Calculating expression similarity for 2 genes...</span></div><div class='output co'>#&gt; <span class='message'>    this process may take a long time...</span></div><div class='output co'>#&gt; <span class='message'>    ncores=1, running sequentially...</span></div><div class='output co'>#&gt; <span class='message'>Finished! Time elapsed: 0.55 secs</span></div><div class='input'><span class='fu'>filter_genes_transcript</span><span class='op'>(</span>
+</div><div class='output co'>#&gt; <span class='message'>Calculating expression similarity for 2 genes...</span></div><div class='output co'>#&gt; <span class='message'>    this process may take a long time...</span></div><div class='output co'>#&gt; <span class='message'>    ncores=1, running sequentially...</span></div><div class='output co'>#&gt; <span class='message'>Finished! Time elapsed: 0.47 secs</span></div><div class='input'><span class='fu'>filter_genes_transcript</span><span class='op'>(</span>
     genes <span class='op'>=</span> <span class='va'>genes</span>,
     expression.matrix <span class='op'>=</span> <span class='va'>expression.summary</span><span class='op'>$</span><span class='va'>expression.matrix</span>,
     noise.thresholds <span class='op'>=</span> <span class='va'>noise.thresholds</span>,

diff --git a/docs/reference/remove_noise_from_bams.html b/docs/reference/remove_noise_from_bams.html
@@ -270,7 +270,7 @@ This matrix has no entries remaining below the noise threshold.</p>
   genes <span class='op'>=</span> <span class='va'>genes</span>,
   mapq.unique <span class='op'>=</span> <span class='fl'>99</span>
 <span class='op'>)</span>
-</div><div class='output co'>#&gt; <span class='message'>Calculating expression similarity for 2 genes...</span></div><div class='output co'>#&gt; <span class='message'>    this process may take a long time...</span></div><div class='output co'>#&gt; <span class='message'>    ncores=1, running sequentially...</span></div><div class='output co'>#&gt; <span class='message'>Finished! Time elapsed: 0.52 secs</span></div><div class='input'><span class='fu'>remove_noise_from_bams</span><span class='op'>(</span>
+</div><div class='output co'>#&gt; <span class='message'>Calculating expression similarity for 2 genes...</span></div><div class='output co'>#&gt; <span class='message'>    this process may take a long time...</span></div><div class='output co'>#&gt; <span class='message'>    ncores=1, running sequentially...</span></div><div class='output co'>#&gt; <span class='message'>Finished! Time elapsed: 0.73 secs</span></div><div class='input'><span class='fu'>remove_noise_from_bams</span><span class='op'>(</span>
     bams <span class='op'>=</span> <span class='va'>bams</span>,
     genes <span class='op'>=</span> <span class='va'>genes</span>,
     expression <span class='op'>=</span> <span class='va'>expression.summary</span>,

diff --git a/docs/reference/calculate_expression_similarity_transcript.html b/docs/reference/calculate_expression_similarity_transcript.html
@@ -305,7 +305,7 @@ but parallelisation is highly encouraged; it is set to detectCores() if higher</
   genes <span class='op'>=</span> <span class='va'>genes</span>,
   mapq.unique <span class='op'>=</span> <span class='fl'>99</span>
 <span class='op'>)</span>
-</div><div class='output co'>#&gt; <span class='message'>Calculating expression similarity for 2 genes...</span></div><div class='output co'>#&gt; <span class='message'>    this process may take a long time...</span></div><div class='output co'>#&gt; <span class='message'>    ncores=1, running sequentially...</span></div><div class='output co'>#&gt; <span class='message'>Finished! Time elapsed: 0.56 secs</span></div></pre>
+</div><div class='output co'>#&gt; <span class='message'>Calculating expression similarity for 2 genes...</span></div><div class='output co'>#&gt; <span class='message'>    this process may take a long time...</span></div><div class='output co'>#&gt; <span class='message'>    ncores=1, running sequentially...</span></div><div class='output co'>#&gt; <span class='message'>Finished! Time elapsed: 0.66 secs</span></div></pre>
   </div>
   <div class="col-md-3 hidden-xs hidden-sm" id="pkgdown-sidebar">
     <nav id="toc" data-toggle="toc" class="sticky-top">

diff --git a/docs/articles/vignette_noisyr_counts_files/header-attrs-2.8/header-attrs.js b/docs/articles/vignette_noisyr_counts_files/header-attrs-2.8/header-attrs.js
@@ -1,0 +1,12 @@
+// Pandoc 2.9 adds attributes on both header and div. We remove the former (to
+// be compatible with the behavior of Pandoc < 2.8).
+document.addEventListener('DOMContentLoaded', function(e) {
+  var hs = document.querySelectorAll("div.section[class*='level'] > :first-child");
+  var i, h, a;
+  for (i = 0; i < hs.length; i++) {
+    h = hs[i];
+    if (!/^h[1-6]$/i.test(h.tagName)) continue;  // it should be a header h1-h6
+    a = h.attributes;
+    while (a.length > 0) h.removeAttribute(a[0].name);
+  }
+});

diff --git a/docs/preferably.css b/docs/preferably.css
@@ -23,7 +23,16 @@ pre, code, pre.usage, code.sourceCode.r, .sourceCode, .examples, .downlit, .sour
     fill: #ea4aaa;
 }
 
+a, a:hover, a:focus {
+    color: #11866F;
+}
+
 @media (prefers-color-scheme: dark) {
+
+    a, a:hover, a:focus {
+        color: #0ce3ac;
+    }
+
     .github-love {
         stroke: #db61a2;
         fill: #db61a2;
